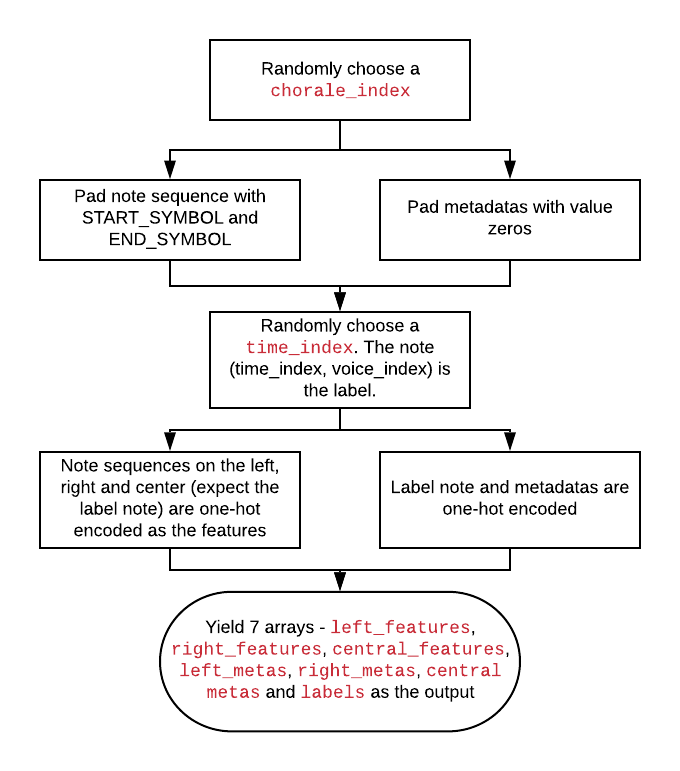
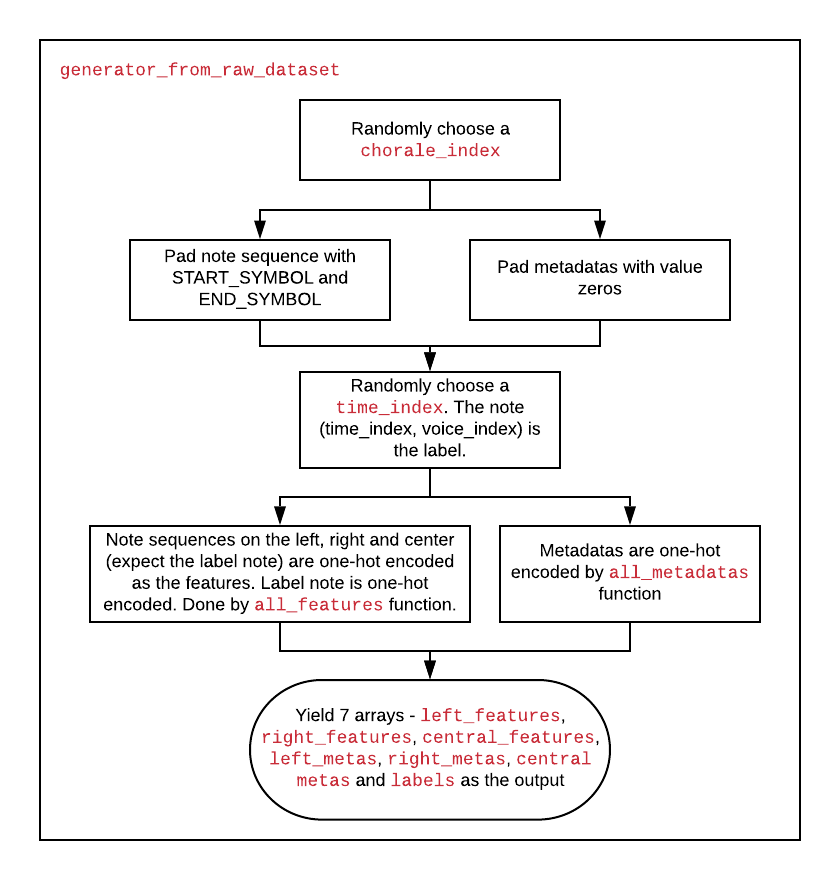
updated image

Changed region(s): [[0.0309, 0.0311, 0.9574, 0.965], [0.8647, 0.3113, 0.8956, 0.3424], [0.2471, 0.9027, 0.2779, 0.9339]]

diff --git a/README.md b/README.md
@@ -23,6 +23,6 @@ Then here comes the main part of dataset preparation - `make_dataset` function. 
 
 ## Generator
 
-When it comes to sending data into models for training, the original Keras implementation uses `generator_from_raw_dataset`. Each time it is called, it does the following things. First, a `chorale_index` is randomly choosed so that we can sample from a certain chorale. Second, the note sequence of this chorale is padded with an array of START_SYMBOL and another array of END_SYMBOL. Both array have a dimension of (timesteps=16, voice number=4). Padding allows us to choose the leftmost and rightmost note sequences as the training samples. Third, metadata sequences are padded accordingly with values zero. Fourth, a `time_index` is randomly choosed from the unpadded note sequence range, and a `voice_index` is given as the voice to be predicted. Thus, the note sequences (timesteps=16 to both left and right sides) surround the note (time_index, voice_index) are used as training features. Fifth, the note sequences on the left side, on the right side, and centered on the `time_index` are one-hot encoded, and 4 voices one-hot vectors in each timestep are concatenated into a many-one-hot vector. The label and metadatas are one-hot encoded and concatenated as well in the feature dimension. Finally, 7 arrays - `left_features`, `right_features`, `central_features`, `left_metas`, `right_metas`, `central_metas` and `labels` are yielded as the generator output.
+When it comes to sending data into models for training, the original Keras implementation uses `generator_from_raw_dataset`. Each time it is called, it does the following things. First, a `chorale_index` is randomly choosed so that we can sample from a certain chorale. Second, the note sequence of this chorale is padded with an array of START_SYMBOL and another array of END_SYMBOL. Both array have a dimension of (timesteps=16, voice number=4). Padding allows us to choose the leftmost and rightmost note sequences as the training samples. Third, metadata sequences are padded accordingly with values zero. Fourth, a `time_index` is randomly choosed from the unpadded note sequence range, and a `voice_index` is given as the voice to be predicted. Thus, the note sequences (timesteps=16 to both left and right sides) surround the note (time_index, voice_index) are used as training features. Fifth, the note sequences on the left side, on the right side, and centered on the `time_index` are one-hot encoded, and 4 voices one-hot vectors in each timestep are concatenated into a many-one-hot vector. The label is one hot encoded as well. Metadatas are one-hot encoded and concatenated in the feature dimension. Finally, 7 arrays - `left_features`, `right_features`, `central_features`, `left_metas`, `right_metas`, `central_metas` and `labels` are yielded as the generator output.
 
 ![generator deepBach flowchart](img/generator_deepBach.png)
